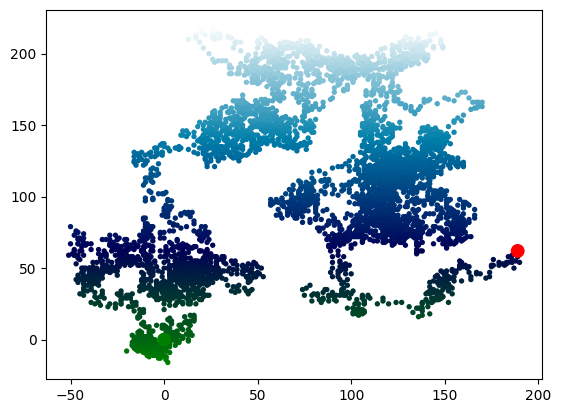
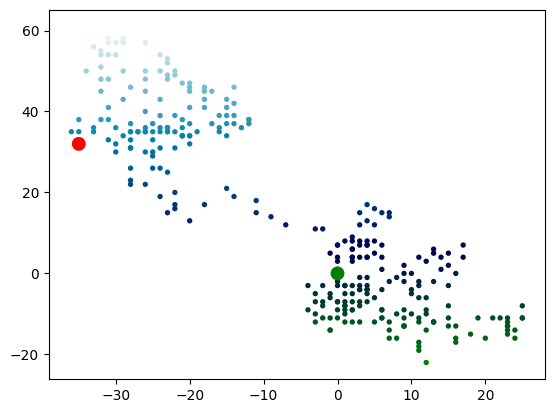
Finished final project on plotting and random walks

diff --git a/Final Project/random_walk.py b/Final Project/random_walk.py
@@ -37,7 +37,7 @@ class RandomWalk():
             self.x_values.append(next_x)
             self.y_values.append(next_y)
 
-rw = RandomWalk()
+rw = RandomWalk(300)
 rw.fill_walk()
 # Plot the middle values
 plt.scatter(rw.x_values, rw.y_values, c=rw.y_values, 
